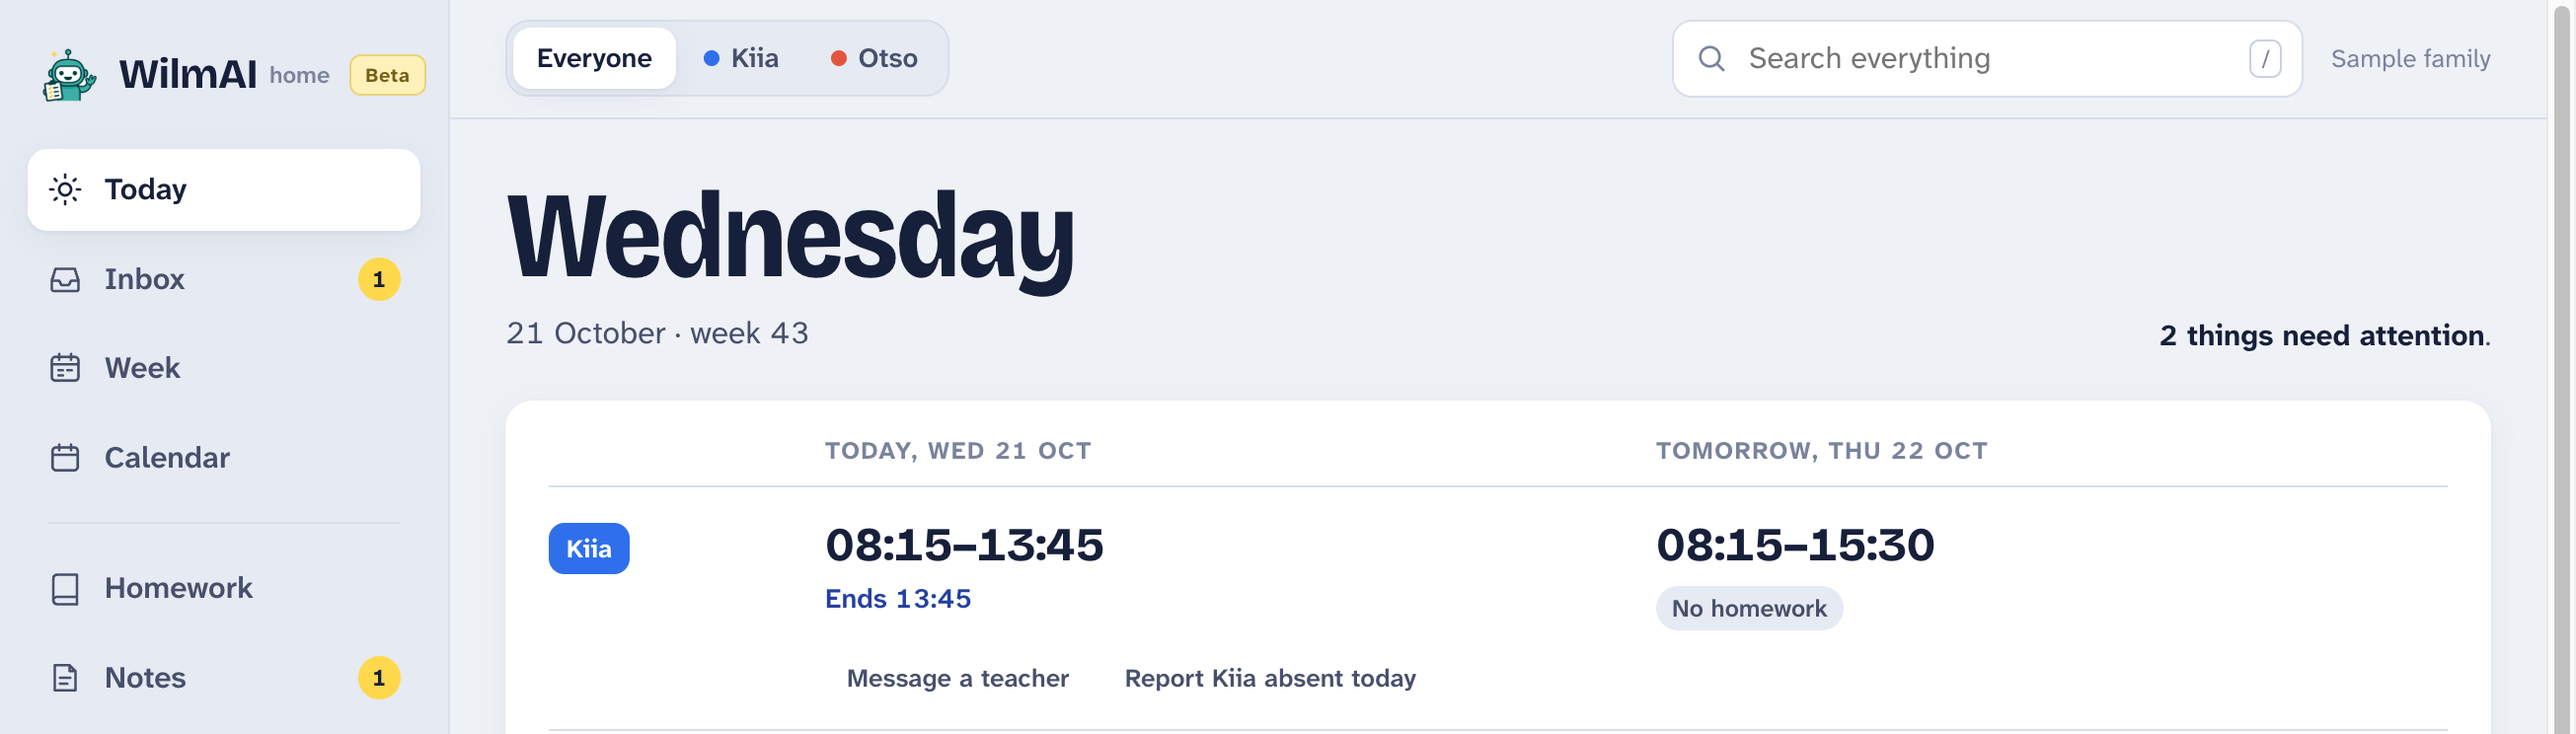
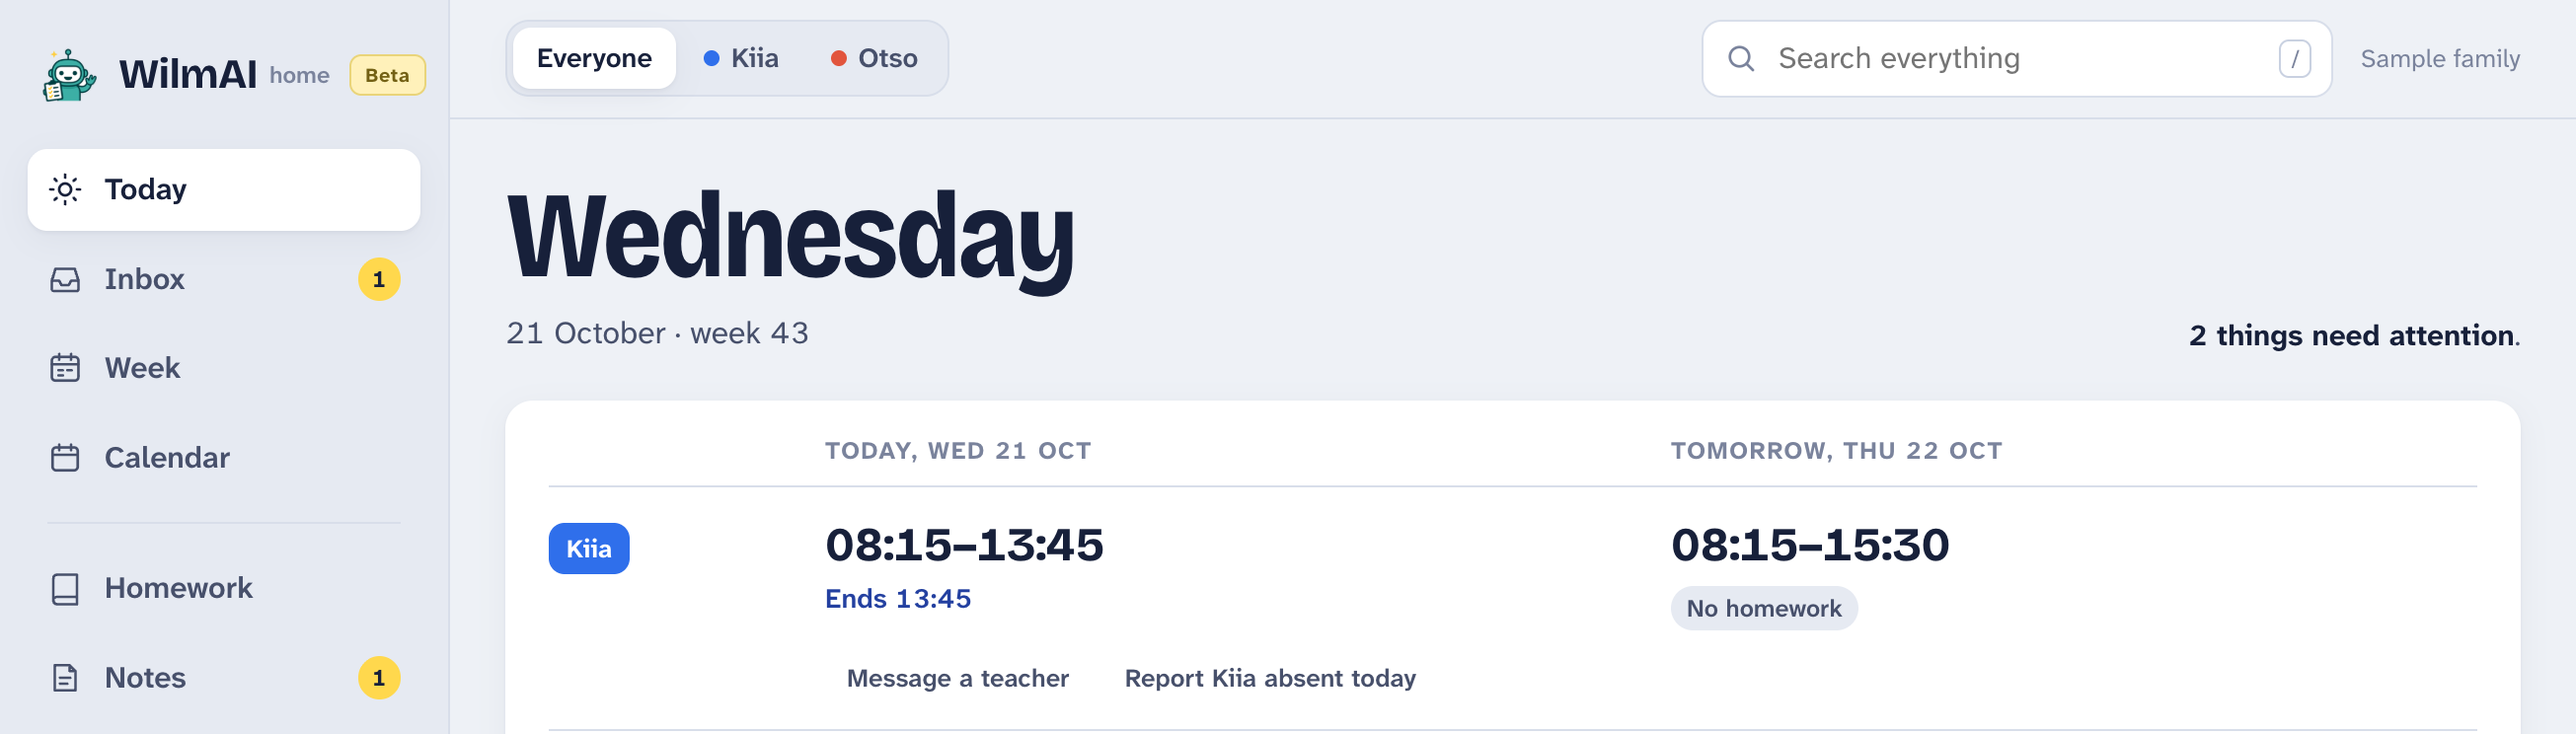
site, readme: WilmAI Home's screenshot is the whole Today page, with no scroll bar

diff --git a/apps/site/app/[lang]/home/page.tsx b/apps/site/app/[lang]/home/page.tsx
@@ -17,7 +17,7 @@ export async function generateMetadata({ params }: Props): Promise<Metadata> {
     title,
     description,
     alternates: { canonical: `/${lang}/home`, languages: { en: "/en/home", fi: "/fi/home", "x-default": "/en/home" } },
-    openGraph: { title, description, url: `/${lang}/home`, images: [{ url: `/home-today-${lang}.png`, width: 2610, height: 1740, alt: homeCopy[lang].hero.sample }] },
+    openGraph: { title, description, url: `/${lang}/home`, images: [{ url: `/home-today-${lang}.png`, width: 2610, height: 2268, alt: homeCopy[lang].hero.sample }] },
     twitter: { title, description, images: [`/home-today-${lang}.png`] }
   };
 }
@@ -53,7 +53,7 @@ export default async function WilmAIHomePage({ params }: Props) {
         <p className="home-requirements">{t.hero.requirements}</p>
         <figure className="home-preview">
           {/* The app in its light theme with the sample family; how to retake it is in the site's README. */}
-          <Image src={`/home-today-${lang}.png`} alt={t.hero.sample} width={1305} height={870} priority />
+          <Image src={`/home-today-${lang}.png`} alt={t.hero.sample} width={1305} height={1134} priority />
           <figcaption>{t.hero.sample}</figcaption>
         </figure>
       </section>

diff --git a/apps/site/components/HomeCard.tsx b/apps/site/components/HomeCard.tsx
@@ -8,7 +8,7 @@ export default function HomeCard({ lang }: { lang: Lang }) {
   return (
     <section className="section home-card" aria-labelledby="home-card-title">
       <a className="home-card-shot" href={`/${lang}/home`} tabIndex={-1} aria-hidden="true">
-        <Image src={`/home-today-${lang}.png`} alt="" width={1305} height={870} />
+        <Image src={`/home-today-${lang}.png`} alt="" width={1305} height={1134} />
       </a>
       <div className="home-card-copy">
         <p className="eyebrow">{t.eyebrow}</p>

diff --git a/apps/site/README.md b/apps/site/README.md
@@ -13,14 +13,16 @@ static files and served by Cloudflare Workers.
   "WilmAI Home" link and an FAQ answer, that's how people find it. The front page's hero stays about
   assistants.
 - `public/home-today-en.png`, `public/home-today-fi.png` — the app's Today in its light theme with the
-  made-up sample family, never real children's data. To retake them: run the app in a browser
-  (`pnpm dev` in `apps/home`) and open it in a fresh browser profile with the light colour
-  scheme, the language's locale, Helsinki's time zone and 2× pixels, with the clock frozen on a school-day
-  morning (Playwright's `page.clock.setFixedTime`, e.g. a Wednesday at 09:40): the sample family is built
-  around today, so a weekend shows no school. Choose the sample family, then No AI in Settings (so the
-  menu's "Choose AI" cue is gone); open Today in a 1305×950 window and capture the top 1305×870 (that
-  leaves out the menu's "Only in this browser" corner). The banner's `home-thumb-*.png` are the same
-  shots at 480×320 (`sips -z 320 480`).
+  made-up sample family, never real children's data, the whole page with no scroll bar. To retake them: run
+  the app in a browser (`pnpm dev` in `apps/home`) and open it in a fresh browser profile with the light
+  colour scheme, the language's locale, Helsinki's time zone and 2× pixels, with the clock frozen on a
+  school-day morning (Playwright's `page.clock.setFixedTime`, e.g. a Wednesday at 09:40): the sample family is
+  built around today, so a weekend shows no school. Choose the sample family, then No AI in Settings (so the
+  menu's "Choose AI" cue is gone), open Today in a window 1305 wide and exactly as tall as the page
+  (`document.documentElement.scrollHeight`, 1134 now), hide the menu's corner (`.nav-foot`, `.nav-version`:
+  in a browser it says "Only in this browser") and capture the window. The page's `<Image>` sizes and the
+  Open Graph size follow the picture. The banner's `home-thumb-*.png` are its top 1305×870 at 480×320, and
+  the main README's `assets/readme-home-top.png` its top 1305×372 at 2×.
 - `public/_headers` — security and cache headers
 - `public/_redirects` — `/get/claude` (the Claude Desktop extension) and `/changes` (release notes, linked from the update notices)
 - `public/og-en.png`, `public/og-fi.png` — the share images (what a link shows in WhatsApp, Facebook and the like), made from `og/card.html`: open it with `?lang=en` or `?lang=fi` at 1200×630 and screenshot it. Its copy follows the hero; update both together
